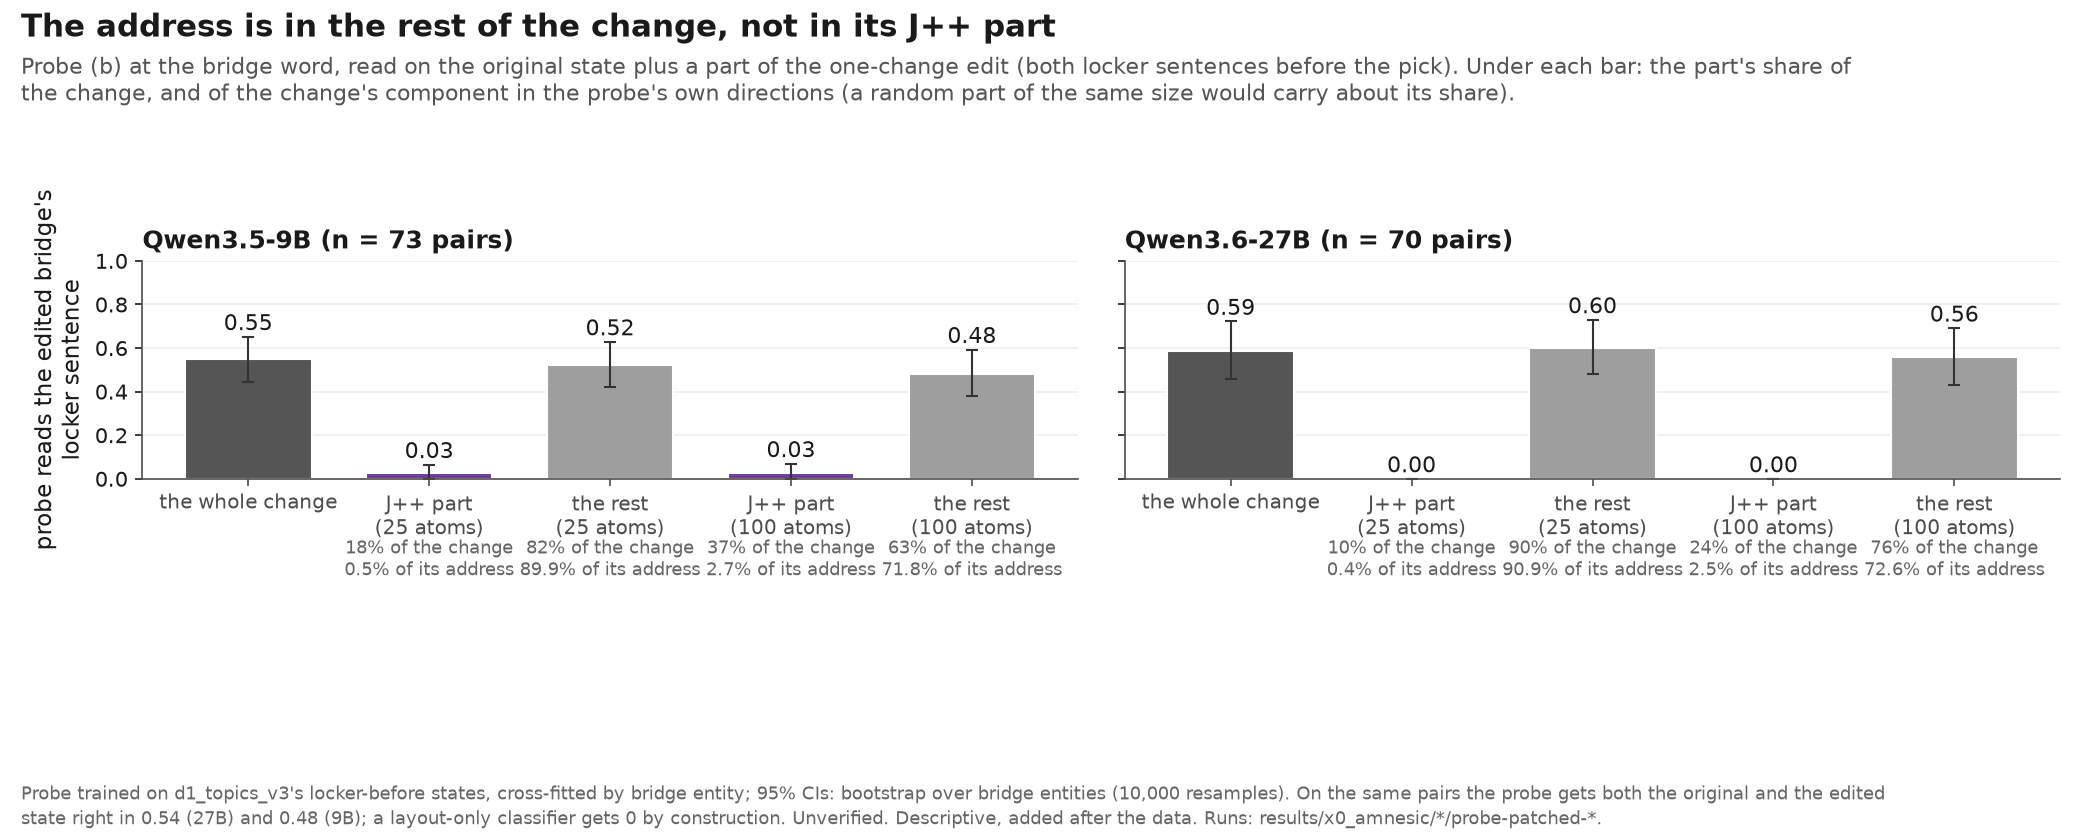
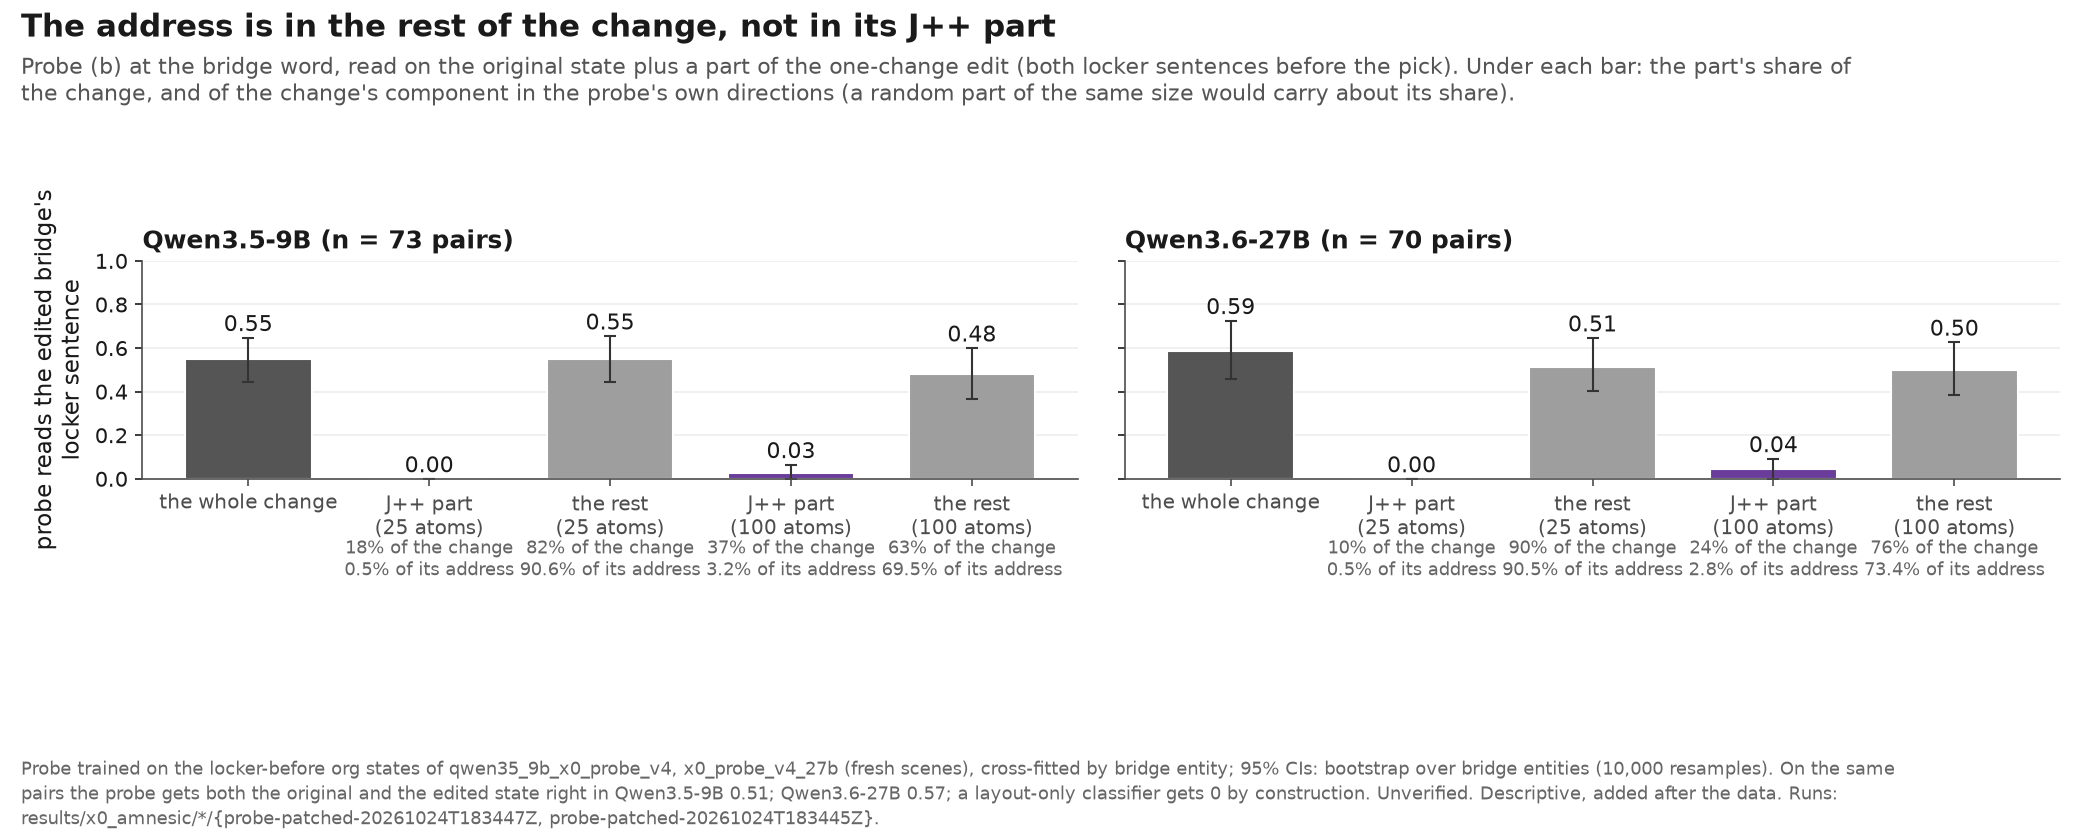
README fix: finding 5 quoted the value readout's numbers (pair right 0.03, 6.3%) because x0_details took the newest probe-patched folder by name; now the newest address run (pair right 0.57 / 0.51, 0.5%); finding 5 adds the first-mention result; F8 from the same run (probe trained on the fresh scene

diff --git a/scripts/x0_status_pack.py b/scripts/x0_status_pack.py
@@ -359,10 +359,14 @@ def f8(plt, F, color, grey) -> None:
             ("org + rest, k = 25", "the rest\n(25 atoms)"), ("org + J++ part, k = 100", "J++ part\n(100 atoms)"),
             ("org + rest, k = 100", "the rest\n(100 atoms)"))  # fmt: skip
     fig, axes = plt.subplots(1, len(AMNESIC), figsize=(14, 5.6), sharey=True)
+    pair = {}
     for ax, (target, (label, run)) in zip(axes, AMNESIC.items(), strict=True):
-        path = sorted((pins.RESULTS_DIR / "x0_amnesic" / run).glob("probe-patched-*/probe_patched.json"))[-1]
+        from scripts.x0_details import latest_patched
+
+        path = latest_patched(run, "address")
         blob = json.loads(path.read_text())
         res, energy = blob["results"], blob["results"]["energy"]
+        pair[label] = (res["pair right"][0], blob["probe"], path.parent.name)
         for i, (key, _) in enumerate(bars):
             v, lo, hi = res[f"{key}: reads the alt's"]
             col = F.LOOKUP if "J++" in key else "#9e9e9e" if "rest" in key else "#555555"
@@ -384,10 +388,11 @@ def f8(plt, F, color, grey) -> None:
          "Probe (b) at the bridge word, read on the original state plus a part of the one-change edit (both locker "
          "sentences before the pick). Under each bar: the part's share of the change, and of the change's component "
          "in the probe's own directions (a random part of the same size would carry about its share).")  # fmt: skip
-    foot(fig, ["Probe trained on d1_topics_v3's locker-before states, cross-fitted by bridge entity; " + CI + ". On the same "
-               "pairs the probe gets both the original and the edited state right in 0.54 (27B) and 0.48 (9B); a layout-only "
-               "classifier gets 0 by construction. Unverified. Descriptive, added after the data. Runs: "
-               "results/x0_amnesic/*/probe-patched-*."])  # fmt: skip
+    both = "; ".join(f"{k} {v[0]:.2f}" for k, v in pair.items())
+    foot(fig, [f"Probe trained on the locker-before org states of {', '.join(v[1] for v in pair.values())} (fresh scenes), "
+               f"cross-fitted by bridge entity; {CI}. On the same pairs the probe gets both the original and the edited state "
+               f"right in {both}; a layout-only classifier gets 0 by construction. Unverified. Descriptive, added after the "
+               f"data. Runs: results/x0_amnesic/*/{{{', '.join(v[2] for v in pair.values())}}}."])  # fmt: skip
     fig.tight_layout(rect=(0, 0.13, 1, 0.84))
     fig.savefig(OUT / "f8_address.png", dpi=150, facecolor="white")
     plt.close(fig)

diff --git a/scripts/x0_details.py b/scripts/x0_details.py
@@ -226,6 +226,13 @@ def probe_numbers(num: Numbers) -> None:
         num.add(f"probe_c_before_{m}", f2(rows["bridge identity"]["probe"][0]), src)
 
 
+def latest_patched(run: str, target: str) -> Path:
+    """The newest x0_probe_patched output of an x0_amnesic run for one target (runs before --target are the address)."""
+    paths = sorted((pins.RESULTS_DIR / "x0_amnesic" / run).glob("probe-patched-*/probe_patched.json"),
+                   key=lambda p: p.parent.name[-16:])  # by the UTC stamp, not the folder's name  # fmt: skip
+    return [p for p in paths if json.loads(p.read_text()).get("target", "address") == target][-1]
+
+
 def address_numbers(num: Numbers) -> None:
     """The address at the bridge's word (descriptive): the probes on 1,500 fresh scenes (locker-before), probe (a) with
     the locker index factored out, the probe subspace removed from or kept alone in the single-change edit (x0_amnesic),
@@ -252,10 +259,17 @@ def address_numbers(num: Numbers) -> None:
             num.add(f"amn_{'lk' if w == X.LOOKUP else 'rc'}_excess_{m}", ci(am[("before", w)]["excess"]), src)
         num.add(f"amn_share_{m}", pct(am[("before", X.LOOKUP)]["median_share"]).replace("1%", "1%"), src)
         num.add(f"amn_suff_lk_{m}", f2(am[("before", X.LOOKUP)]["probe_only"][0]), src)
-        path = sorted((pins.RESULTS_DIR / "x0_amnesic" / AMNESIC[m]).glob("probe-patched-*/probe_patched.json"))[-1]
+        path = latest_patched(AMNESIC[m], "address")
         src = str(path.relative_to(pins.REPO_ROOT))
         pr = json.loads(path.read_text())["results"]
         num.add(f"pair_right_{m}", ci(pr["pair right"]), src)
+        dup = pr["duplicate_pick_split"]  # which earlier mention of the alt item the readout follows
+        for key, name in (("lockerfirst", "before, the other pick is the latest earlier mention"),
+                          ("otherfirst", "before, the alt locker is the latest earlier mention")):  # fmt: skip
+            num.add(f"dup_{key}_alt_{m}", f2(dup[name]["alt right"][0]), src)
+            num.add(f"dup_{key}_reads_other_{m}", f2(dup[name]["alt state reads the other pick sentence"][0]), src)
+            num.add(f"dup_{key}_n_{m}", str(dup[name]["n"]), src)
+        num.add(f"dup_after_alt_{m}", f2(dup["after"]["alt right"][0]), src)
         num.add(f"pair_n_{m}", str(json.loads(path.read_text())["n"]), src)
         for k in (25, 100):
             num.add(f"patched_j{k}_alt_{m}", f2(pr[f"org + J++ part, k = {k}: reads the alt's"][0]), src)

diff --git a/docs/README.template.md b/docs/README.template.md
@@ -20,7 +20,7 @@
    - **27B:** a little at 25 atoms, so the pre-registered test was **not confirmed**; at 100 atoms about as much as recall ({{num|lk_excess_k100_27b}} vs {{num|rc_excess_k100_27b}}). Added after the data: with an edit that changes only the asked pick, the 27B lookup's extra loss is {{num|single_lk_excess_27b}} (9B: {{num|single_lk_excess_pt_9b}}). At 100 atoms it is still {{num|single_lk_excess_k100_27b}}.
    - **122B:** the pre-registered test at layer 33: **confirmed** (lookup {{num|lk_excess_122b}}; recalls lose {{num|rc_jdep_122b}} of their flips). At 100 atoms the lookup stays at {{num|lk_excess_k100_122b}}. Up to layer 30 both readers need the J++ part.
 4. **Not a missing digit.** Lookups flip mostly when the locker sentence comes *before* the pick sentence, so the lookup might read a locker number already attached to the bridge word, which our letter-only J++ dictionary cannot remove. The digit tokens are not the route: with every token allowed, digits included, the 27B lookup's extra loss is {{num|dig_lk_jppall_k25_before_27b}} (letters only: {{num|dig_lk_jpp_k25_before_27b}}), and the 10 digit directions alone give {{num|dig_lk_jppdig_k10_before_27b}} on all three models.
-5. **The address and the value at the bridge word, outside the J++ part (descriptive, probes).** On 1,500 fresh scenes, where the locker sentence comes before the pick, both are linearly readable at the bridge word: which sentence holds the bridge's locker ({{num|v4_b_before_27b}} on the 27B, {{num|v4_b_before_9b}} on the 9B; the layout alone gives {{num|v4_b_layout_before_27b}}) and the locker number ({{num|v4_a_before_27b}} and {{num|v4_a_before_9b}}, chance 0.11; {{num|v4_a_resid_27b}} and {{num|v4_a_resid_9b}} with the sentence factored out). On the one-change pairs the change of address follows the edit (both members right in {{num|pair_right_27b}} of the 27B's pairs; the layout alone gets none), and the readout follows the item's first mention in the context (in these scenes, the locker sentence), not the locker sentence as such, and it sits in the rest of the change, not in its J++ part: at 25 atoms the J++ part holds {{num|patched_j25_share_27b}} of the change but {{num|patched_j25_probe_energy_27b}} of its component along the probe's directions (27B). Removing the ridge probe's 4 address directions ({{num|amn_share_27b}} of the change), or keeping only them, changes no lookup ({{num|amn_lk_excess_27b}}): the probe's directions are not what the lookup reads.
+5. **The address and the value at the bridge word, outside the J++ part (descriptive, probes).** On 1,500 fresh scenes, where the locker sentence comes before the pick, both are linearly readable at the bridge word: which sentence holds the bridge's locker ({{num|v4_b_before_27b}} on the 27B, {{num|v4_b_before_9b}} on the 9B; the layout alone gives {{num|v4_b_layout_before_27b}}) and the locker number ({{num|v4_a_before_27b}} and {{num|v4_a_before_9b}}, chance 0.11; {{num|v4_a_resid_27b}} and {{num|v4_a_resid_9b}} with the sentence factored out). On the one-change pairs the address readout follows the edit (both members of a pair right in {{num|pair_right_27b}} on the 27B, {{num|pair_right_9b}} on the 9B; the layout alone gets none). It tracks the item's first mention in the context, which in these scenes is the locker sentence: where another person's pick of the item comes first, the readout points there ({{num|dup_otherfirst_reads_other_9b}} of such pairs on the 9B, {{num|dup_otherfirst_reads_other_27b}} on the 27B). The change of address sits in the rest of the edit, not in its J++ part: at 25 atoms the J++ part holds {{num|patched_j25_share_27b}} of the change but {{num|patched_j25_probe_energy_27b}} of its component along the probe's directions (27B). Removing the ridge probe's 4 address directions ({{num|amn_share_27b}} of the change), or keeping only them, changes no lookup ({{num|amn_lk_excess_27b}}): the probe's directions are not what the lookup reads.
 
 ![Removing the J++ part costs recall far more than lookup](figures/status_2026-10-24/f1_readers.png)
 
@@ -64,7 +64,7 @@ How to read this:
 | Weak spot | Status |
 |---|---|
 | The J++ part is mostly not the bridge word: the bridge's own tokens are among its top 25 atoms in {{num|atoms_bridge_top25_letters}} items and carry {{num|atoms_bridge_coef2_letters}} of it (27B, layer 32), so a "word form" is not shown; and "specific to J++" may only mean "aligned with the layer's geometry" | word only vs J++ without the word vs a PCA dictionary (next) |
-| The lookup's route: an address at the bridge word (descriptive, probe), outside the J++ part; not J++ on the 9B and the 122B, not a digit on any model. The ridge probe's 4 directions are not what the lookup reads: removing them, or keeping only them, changes no lookup ({{num|amn_lk_excess_27b}} on the 27B, {{num|amn_lk_excess_9b}} on the 9B) | mass-mean address and value subspaces (next); X4 |
+| The lookup's route: an address at the bridge word (descriptive, probe; it tracks the item's first mention), outside the J++ part; not J++ on the 9B and the 122B, not a digit on any model. The ridge probe's 4 directions are not what the lookup reads: removing them, or keeping only them, changes no lookup ({{num|amn_lk_excess_27b}} on the 27B, {{num|amn_lk_excess_9b}} on the 9B) | mass-mean address and value subspaces (next); X4 |
 | Lookup flips depend on sentence order: locker before pick {{num|lk_order_before_27b}}–{{num|lk_order_before_122b}}, after {{num|lk_order_after_27b}}–{{num|lk_order_after_9b}} | figure F4; X0b fixes the order by design |
 | The two-change edit inflated the extra loss: on the same items, one change instead of two moves the recall's by {{num|paired_rc_excess_27b}} (27B) and {{num|paired_rc_excess_9b}} (9B), the 27B lookup's by {{num|paired_lk_excess_27b}} | the one-change edit from X0b on (it makes two people pick the same item) |
 | On the 27B, the lookup's drop with depth follows how much of the change J++ captures (Spearman {{num|share_rho_27b}}) | stated beside the depth figure |

diff --git a/README.md b/README.md
@@ -9,7 +9,7 @@
 
 **Status (24 Oct 2026).**
 - Models: Qwen3.5-9B, Qwen3.6-27B and Qwen3.5-122B-A10B (FP8 weights, mixture of experts, split over two H100s; its J++ was fitted on the bf16 weights; a hardware gate reproduced a 23 Oct cell first, 0.998 per-row agreement).
-- All numbers are unverified (not yet hand-checked); the layers, the rule and Dan's predictions were fixed before any result was opened. Built at aea2f771 from the X0 run files. Full log: [jobs/c3/X0.md](jobs/c3/X0.md).
+- All numbers are unverified (not yet hand-checked); the layers, the rule and Dan's predictions were fixed before any result was opened. Built at 1510b61b from the X0 run files. Full log: [jobs/c3/X0.md](jobs/c3/X0.md).
 
 ## Main findings
 
@@ -20,7 +20,7 @@
    - **27B:** a little at 25 atoms, so the pre-registered test was **not confirmed**; at 100 atoms about as much as recall (0.60 vs 0.67). Added after the data: with an edit that changes only the asked pick, the 27B lookup's extra loss is 0.05 [0.01, 0.09] (9B: −0.02). At 100 atoms it is still 0.49.
    - **122B:** the pre-registered test at layer 33: **confirmed** (lookup 0.00 [−0.06, 0.06]; recalls lose 0.40 of their flips). At 100 atoms the lookup stays at −0.12. Up to layer 30 both readers need the J++ part.
 4. **Not a missing digit.** Lookups flip mostly when the locker sentence comes *before* the pick sentence, so the lookup might read a locker number already attached to the bridge word, which our letter-only J++ dictionary cannot remove. The digit tokens are not the route: with every token allowed, digits included, the 27B lookup's extra loss is 0.13 (letters only: 0.14), and the 10 digit directions alone give 0.00 on all three models.
-5. **The address and the value at the bridge word, outside the J++ part (descriptive, probes).** On 1,500 fresh scenes, where the locker sentence comes before the pick, both are linearly readable at the bridge word: which sentence holds the bridge's locker (0.99 on the 27B, 0.97 on the 9B; the layout alone gives 0.53) and the locker number (0.40 and 0.27, chance 0.11; 0.38 and 0.28 with the sentence factored out). On the one-change pairs the change of address follows the edit (both members right in 0.03 [0.00, 0.08] of the 27B's pairs; the layout alone gets none), and the readout follows the item's first mention in the context (in these scenes, the locker sentence), not the locker sentence as such, and it sits in the rest of the change, not in its J++ part: at 25 atoms the J++ part holds 10% of the change but 6.3% of its component along the probe's directions (27B). Removing the ridge probe's 4 address directions (1% of the change), or keeping only them, changes no lookup (0.00 [0.00, 0.00]): the probe's directions are not what the lookup reads.
+5. **The address and the value at the bridge word, outside the J++ part (descriptive, probes).** On 1,500 fresh scenes, where the locker sentence comes before the pick, both are linearly readable at the bridge word: which sentence holds the bridge's locker (0.99 on the 27B, 0.97 on the 9B; the layout alone gives 0.53) and the locker number (0.40 and 0.27, chance 0.11; 0.38 and 0.28 with the sentence factored out). On the one-change pairs the address readout follows the edit (both members of a pair right in 0.57 [0.44, 0.71] on the 27B, 0.51 [0.40, 0.61] on the 9B; the layout alone gets none). It tracks the item's first mention in the context, which in these scenes is the locker sentence: where another person's pick of the item comes first, the readout points there (0.90 of such pairs on the 9B, 0.56 on the 27B). The change of address sits in the rest of the edit, not in its J++ part: at 25 atoms the J++ part holds 10% of the change but 0.5% of its component along the probe's directions (27B). Removing the ridge probe's 4 address directions (1% of the change), or keeping only them, changes no lookup (0.00 [0.00, 0.00]): the probe's directions are not what the lookup reads.
 
 ![Removing the J++ part costs recall far more than lookup](figures/status_2026-10-24/f1_readers.png)
 
@@ -64,7 +64,7 @@ How to read this:
 | Weak spot | Status |
 |---|---|
 | The J++ part is mostly not the bridge word: the bridge's own tokens are among its top 25 atoms in 28 of 40 items and carry 12% of it (27B, layer 32), so a "word form" is not shown; and "specific to J++" may only mean "aligned with the layer's geometry" | word only vs J++ without the word vs a PCA dictionary (next) |
-| The lookup's route: an address at the bridge word (descriptive, probe), outside the J++ part; not J++ on the 9B and the 122B, not a digit on any model. The ridge probe's 4 directions are not what the lookup reads: removing them, or keeping only them, changes no lookup (0.00 [0.00, 0.00] on the 27B, 0.05 [0.00, 0.10] on the 9B) | mass-mean address and value subspaces (next); X4 |
+| The lookup's route: an address at the bridge word (descriptive, probe; it tracks the item's first mention), outside the J++ part; not J++ on the 9B and the 122B, not a digit on any model. The ridge probe's 4 directions are not what the lookup reads: removing them, or keeping only them, changes no lookup (0.00 [0.00, 0.00] on the 27B, 0.05 [0.00, 0.10] on the 9B) | mass-mean address and value subspaces (next); X4 |
 | Lookup flips depend on sentence order: locker before pick 76%–89%, after 9%–19% | figure F4; X0b fixes the order by design |
 | The two-change edit inflated the extra loss: on the same items, one change instead of two moves the recall's by −0.15 [−0.22, −0.08] (27B) and −0.13 [−0.19, −0.08] (9B), the 27B lookup's by −0.08 [−0.16, 0.00] | the one-change edit from X0b on (it makes two people pick the same item) |
 | On the 27B, the lookup's drop with depth follows how much of the change J++ captures (Spearman 0.79) | stated beside the depth figure |
